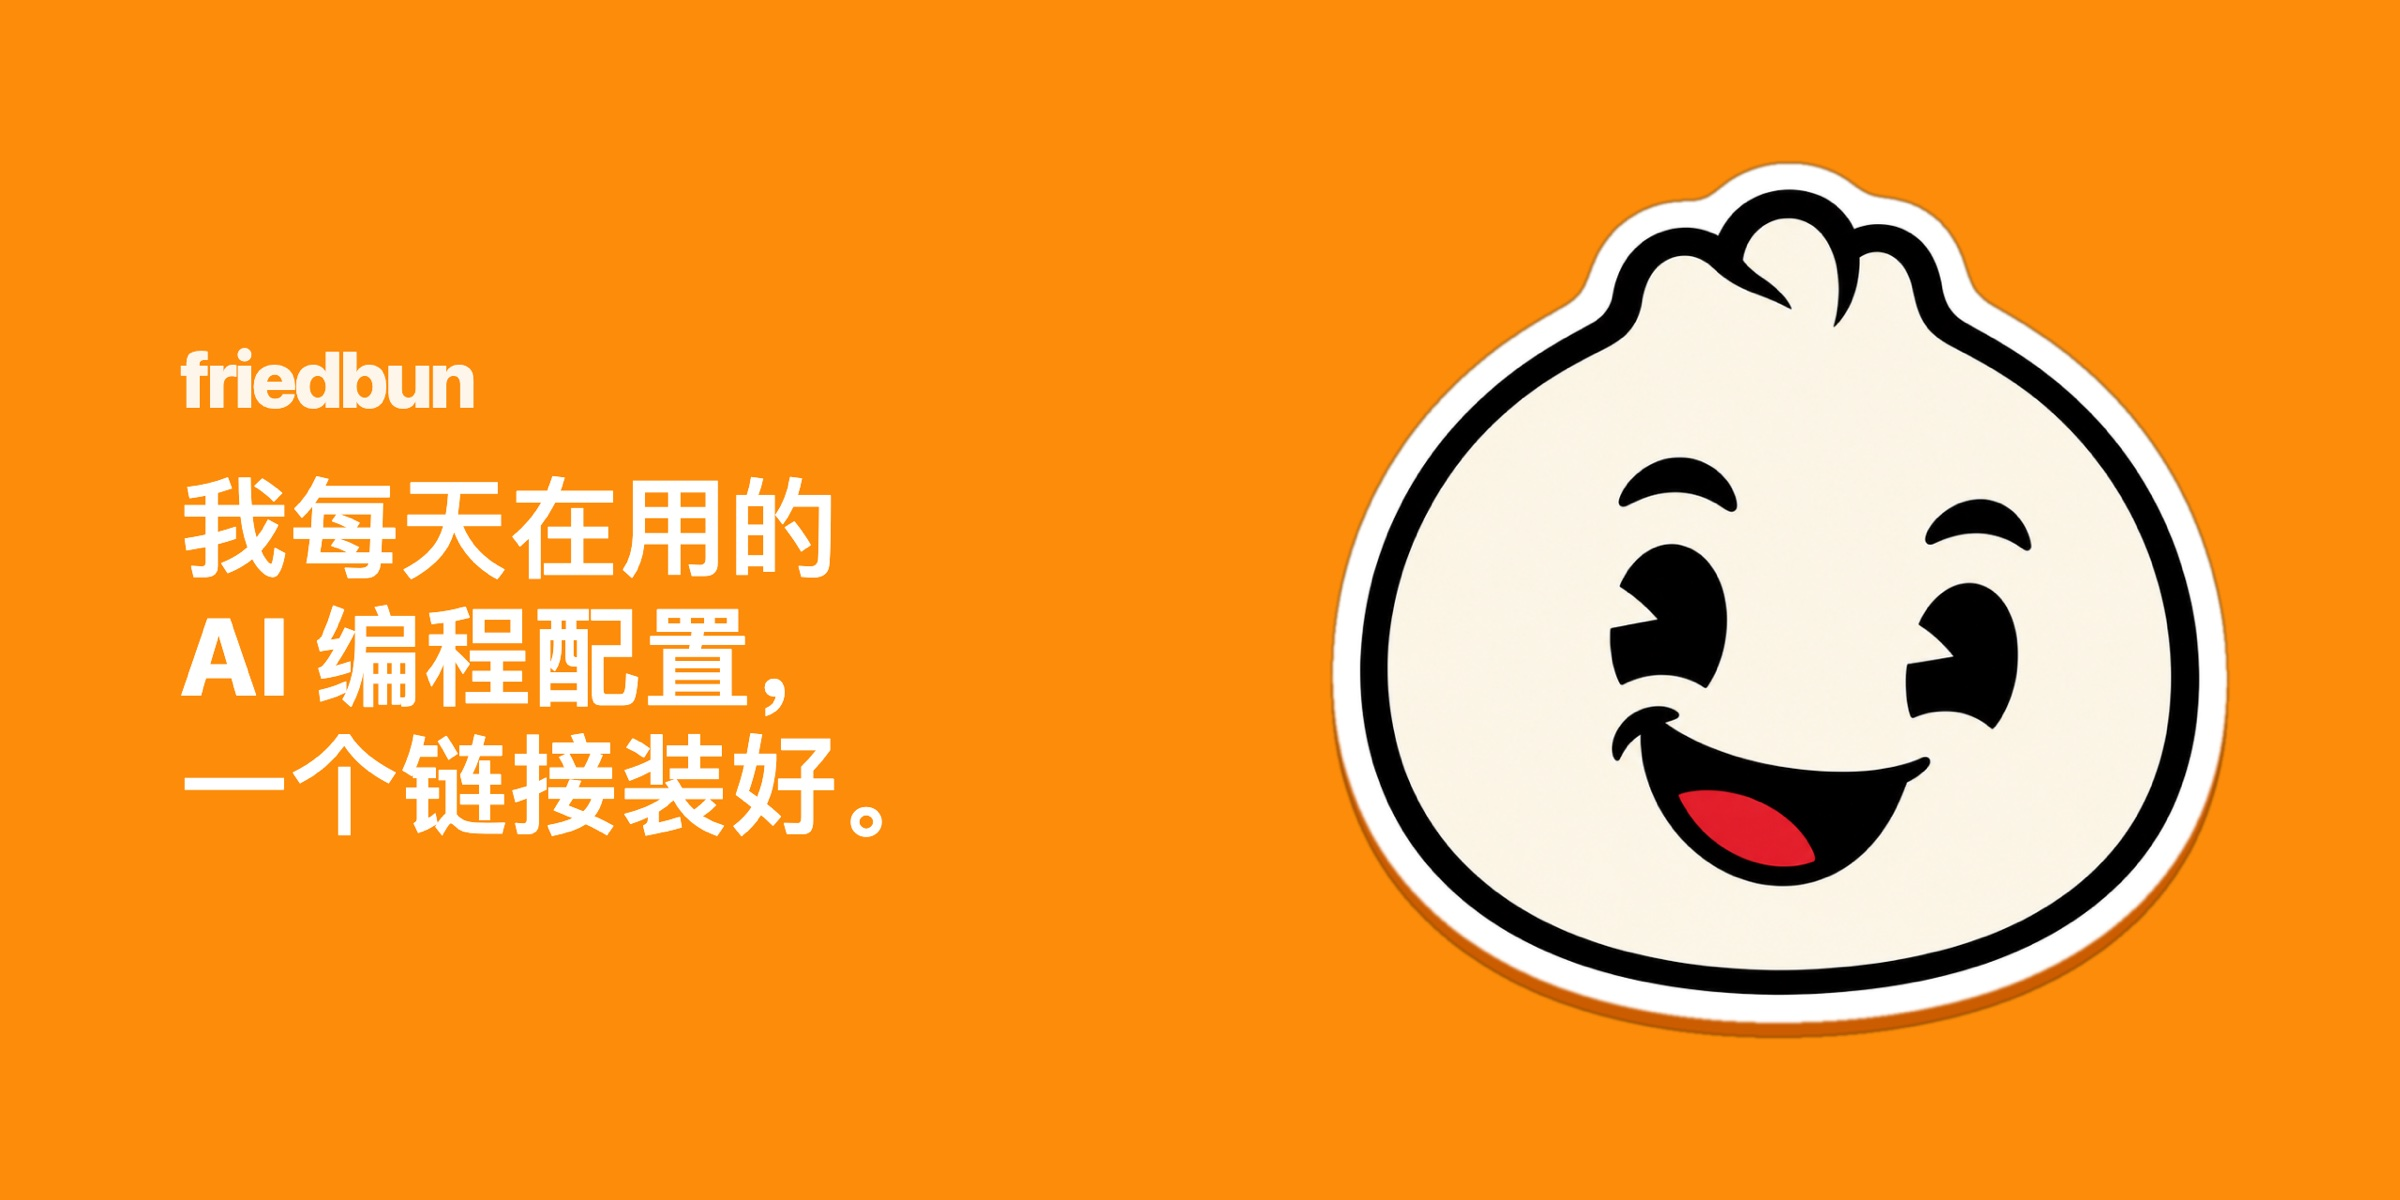
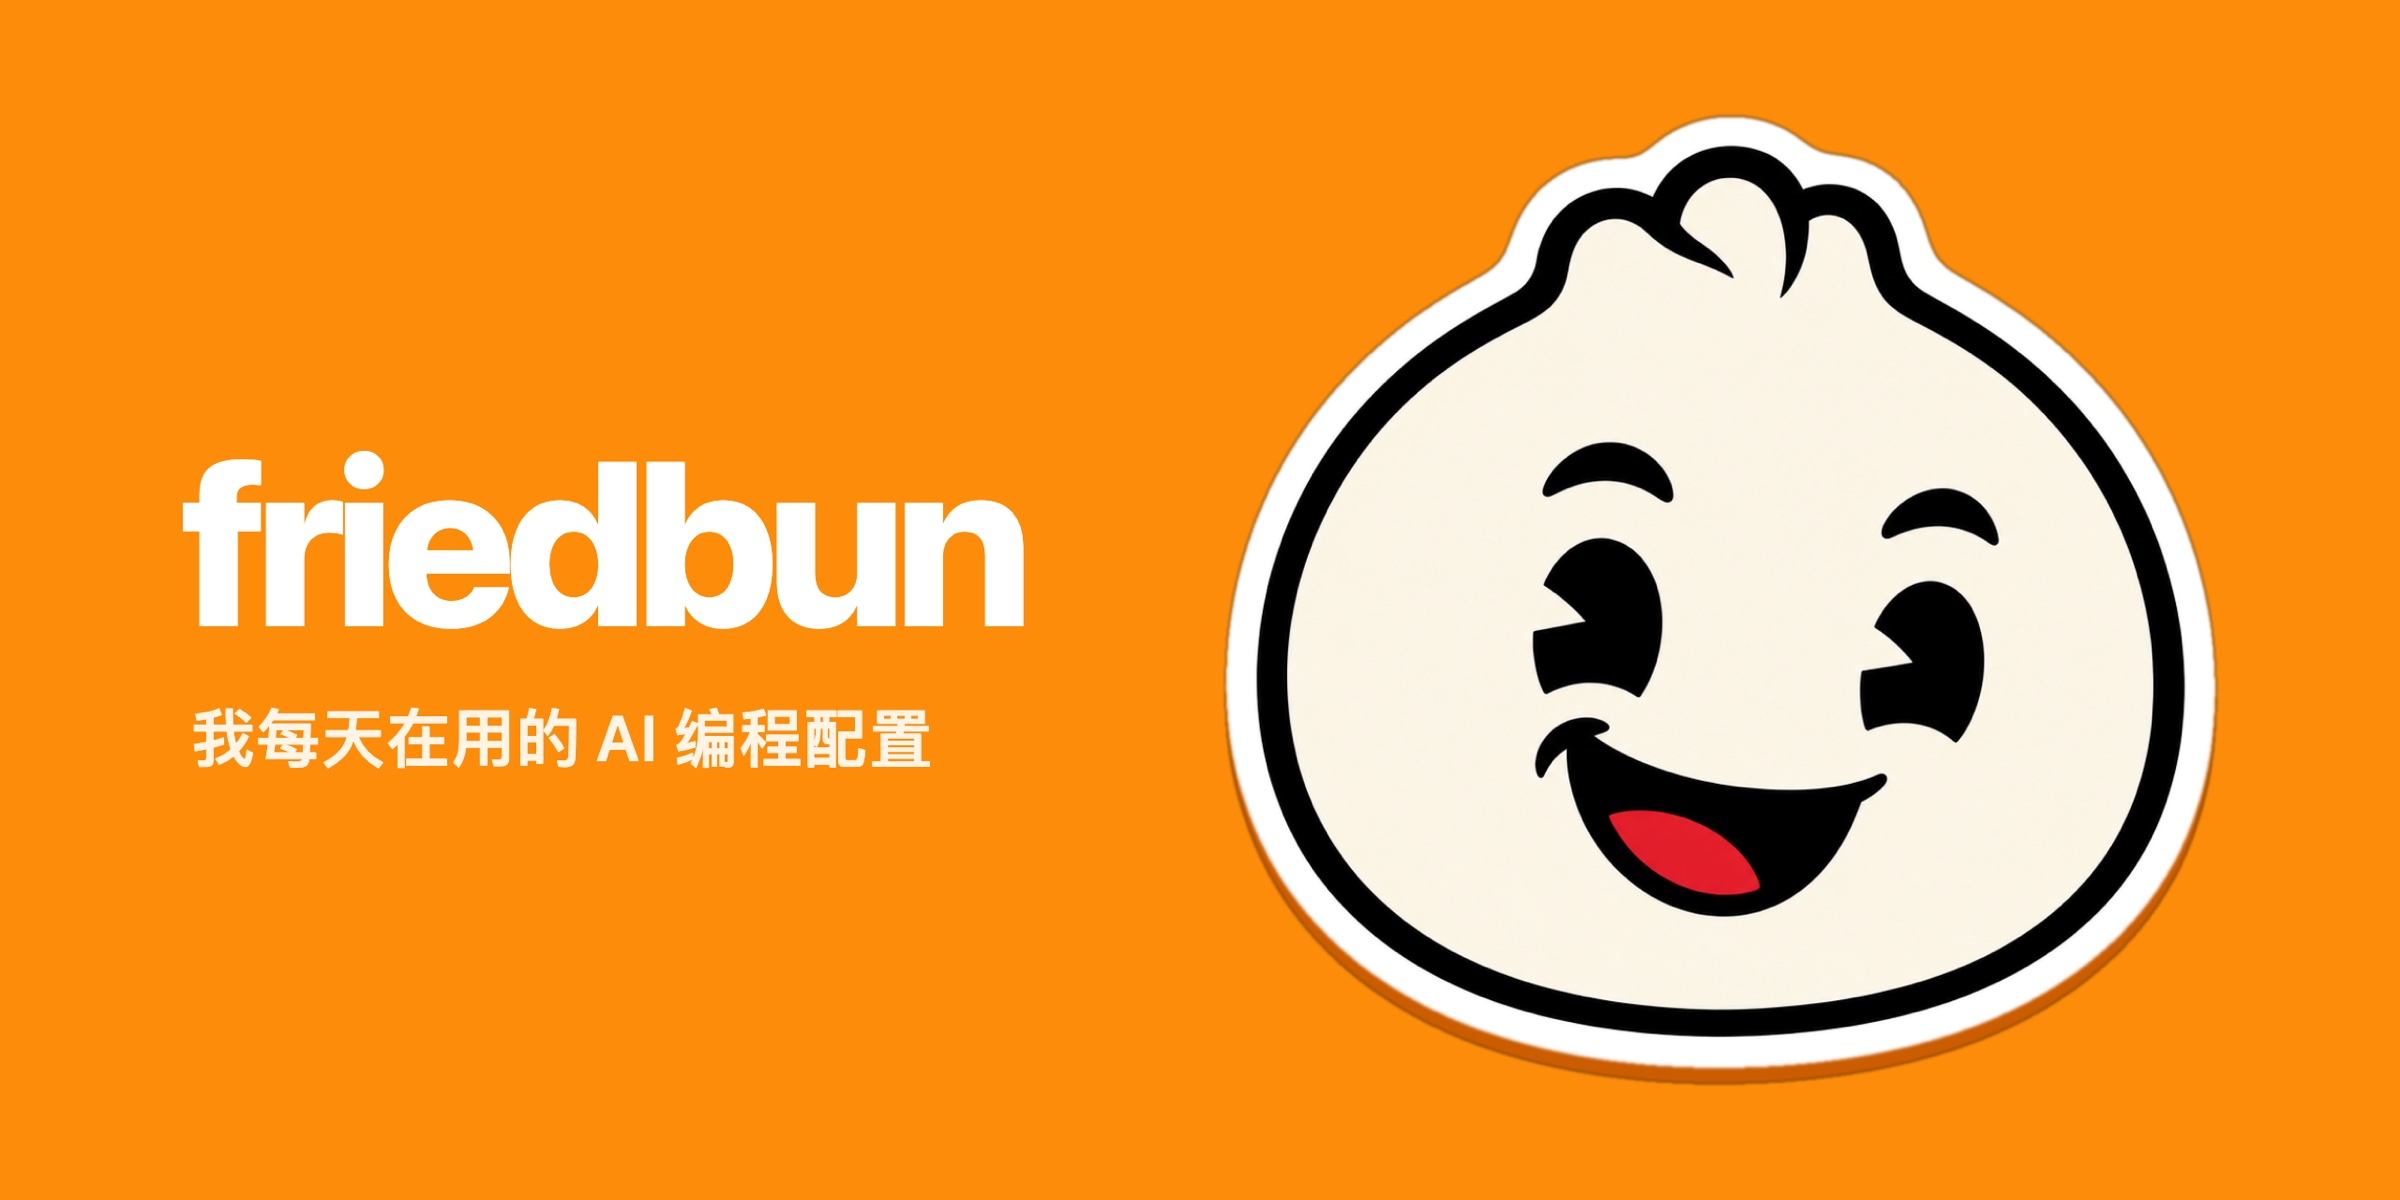
头图以包子为主体放大，标题只留前半句；README 首句改为讲内容与安装，不再重复头图标题

Changed region(s): [[0.5, 0.0925, 0.9375, 0.925], [0.0625, 0.37, 0.4375, 0.7092], [0.0625, 0.2775, 0.2188, 0.3392]]

diff --git a/README.zh-CN.md b/README.zh-CN.md
@@ -1,8 +1,8 @@
-<p align="center"><img alt="friedbun：我每天在用的 AI 编程配置，一个链接装好" src="assets/hero-zh.jpg" width="100%"></p>
+<p align="center"><img alt="friedbun：我每天在用的 AI 编程配置" src="assets/hero-zh.jpg" width="100%"></p>
 
 <p align="center"><a href="README.md">English</a> · <b>中文</b></p>
 
-我每天在用的 AI 编程配置，一个链接装好：25 个 skill、FireCode 多代理编排，还能让 agent 操作 Mac 应用。可以只装 skills，也可以让 agent 把整套配好。
+25 个 skill、FireCode 多代理编排，还能让 agent 操作 Mac 应用。只要 skills 用一行命令；要整套配置，把一个链接发给你的 coding agent 就能装好。
 
 ```bash
 npx skills add Suge8/friedbun

diff --git a/README.md b/README.md
@@ -1,8 +1,8 @@
-<p align="center"><img alt="friedbun — my AI coding setup, one link away" src="assets/hero-en.jpg" width="100%"></p>
+<p align="center"><img alt="friedbun — my AI coding setup" src="assets/hero-en.jpg" width="100%"></p>
 
 <p align="center"><b>English</b> · <a href="README.zh-CN.md">中文</a></p>
 
-My AI coding setup, one link away: 25 skills, multi-agent orchestration with FireCode, and an agent that can use Mac apps. Install just the skills, or let your agent set up the whole thing.
+25 skills, multi-agent orchestration with FireCode, and an agent that can use Mac apps. Get just the skills with one command, or send one link to your coding agent to install the whole setup.
 
 ```bash
 npx skills add Suge8/friedbun
